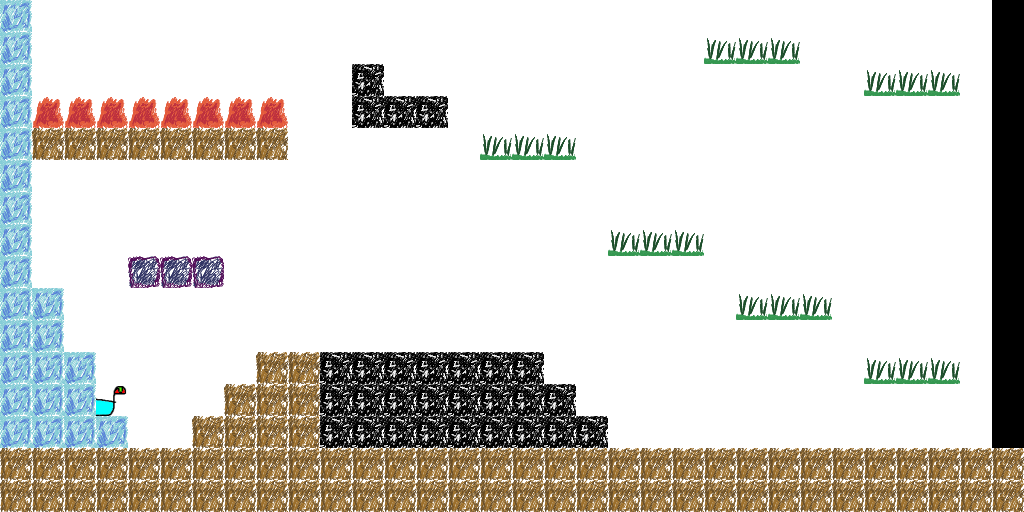
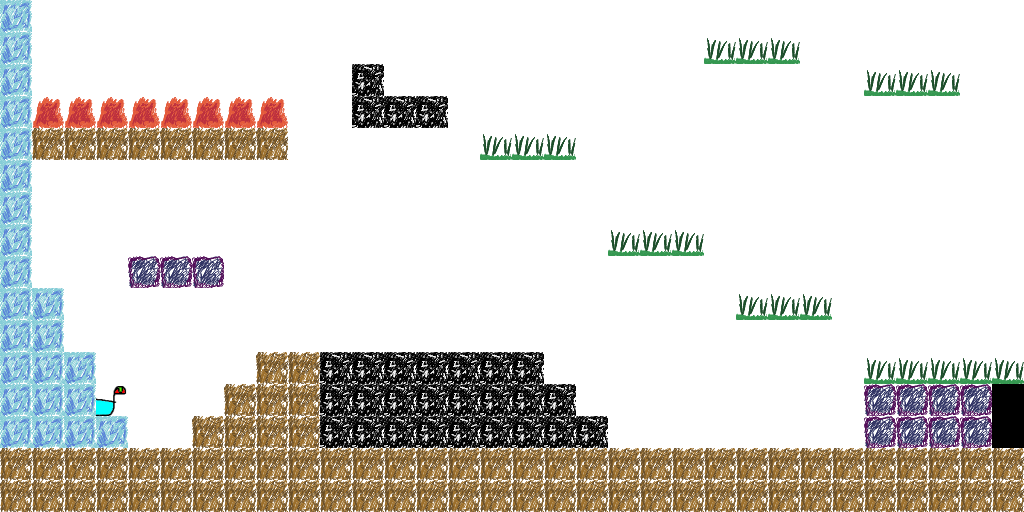
new map and stuff

Changed region(s): [[0.8438, 0.0, 1.0, 0.875]]

diff --git a/src/sketch.js b/src/sketch.js
@@ -4,7 +4,7 @@ const friction = 0.03;
 const moveAccel = 0.3;
 const jumpImpulse = 7;
 // const maxVel = new p5.Vector(2.5, jumpImpulse);
-const maxVel = new p5.Vector(10, jumpImpulse); // for testing
+const maxVel = new p5.Vector(5, jumpImpulse); // for testing
 const cameraSpeed = 1.2;
 const cameraSeekThresh = cameraSpeed * 15;
 const cameraUnseekThresh = cameraSpeed;
@@ -267,7 +267,7 @@ function draw(){
         // dumb seeking
         // mobs[i].vel.x = Math.sign(player.pos.x - mobs[i].pos.x)*maxVel.x;
         // randomly move
-        if(Math.random() < 0.05)
+        if(Math.random() < 0.0005)
           mobs[i].jump();
         if(Math.random() < 0.1){
           if(mobs[i].vel.x != 0){

diff --git a/README.md b/README.md
@@ -29,7 +29,7 @@ what if npcs are the teleporters? [[ note: this would make the code easier... li
 
 ## ALEK legit
 
-- design a cool map
+- design a cool map [[ 3 rooms ]]
 
 - let npcs give characters items and money
     * note: to do this you wanna add an entry to npcs.json...
